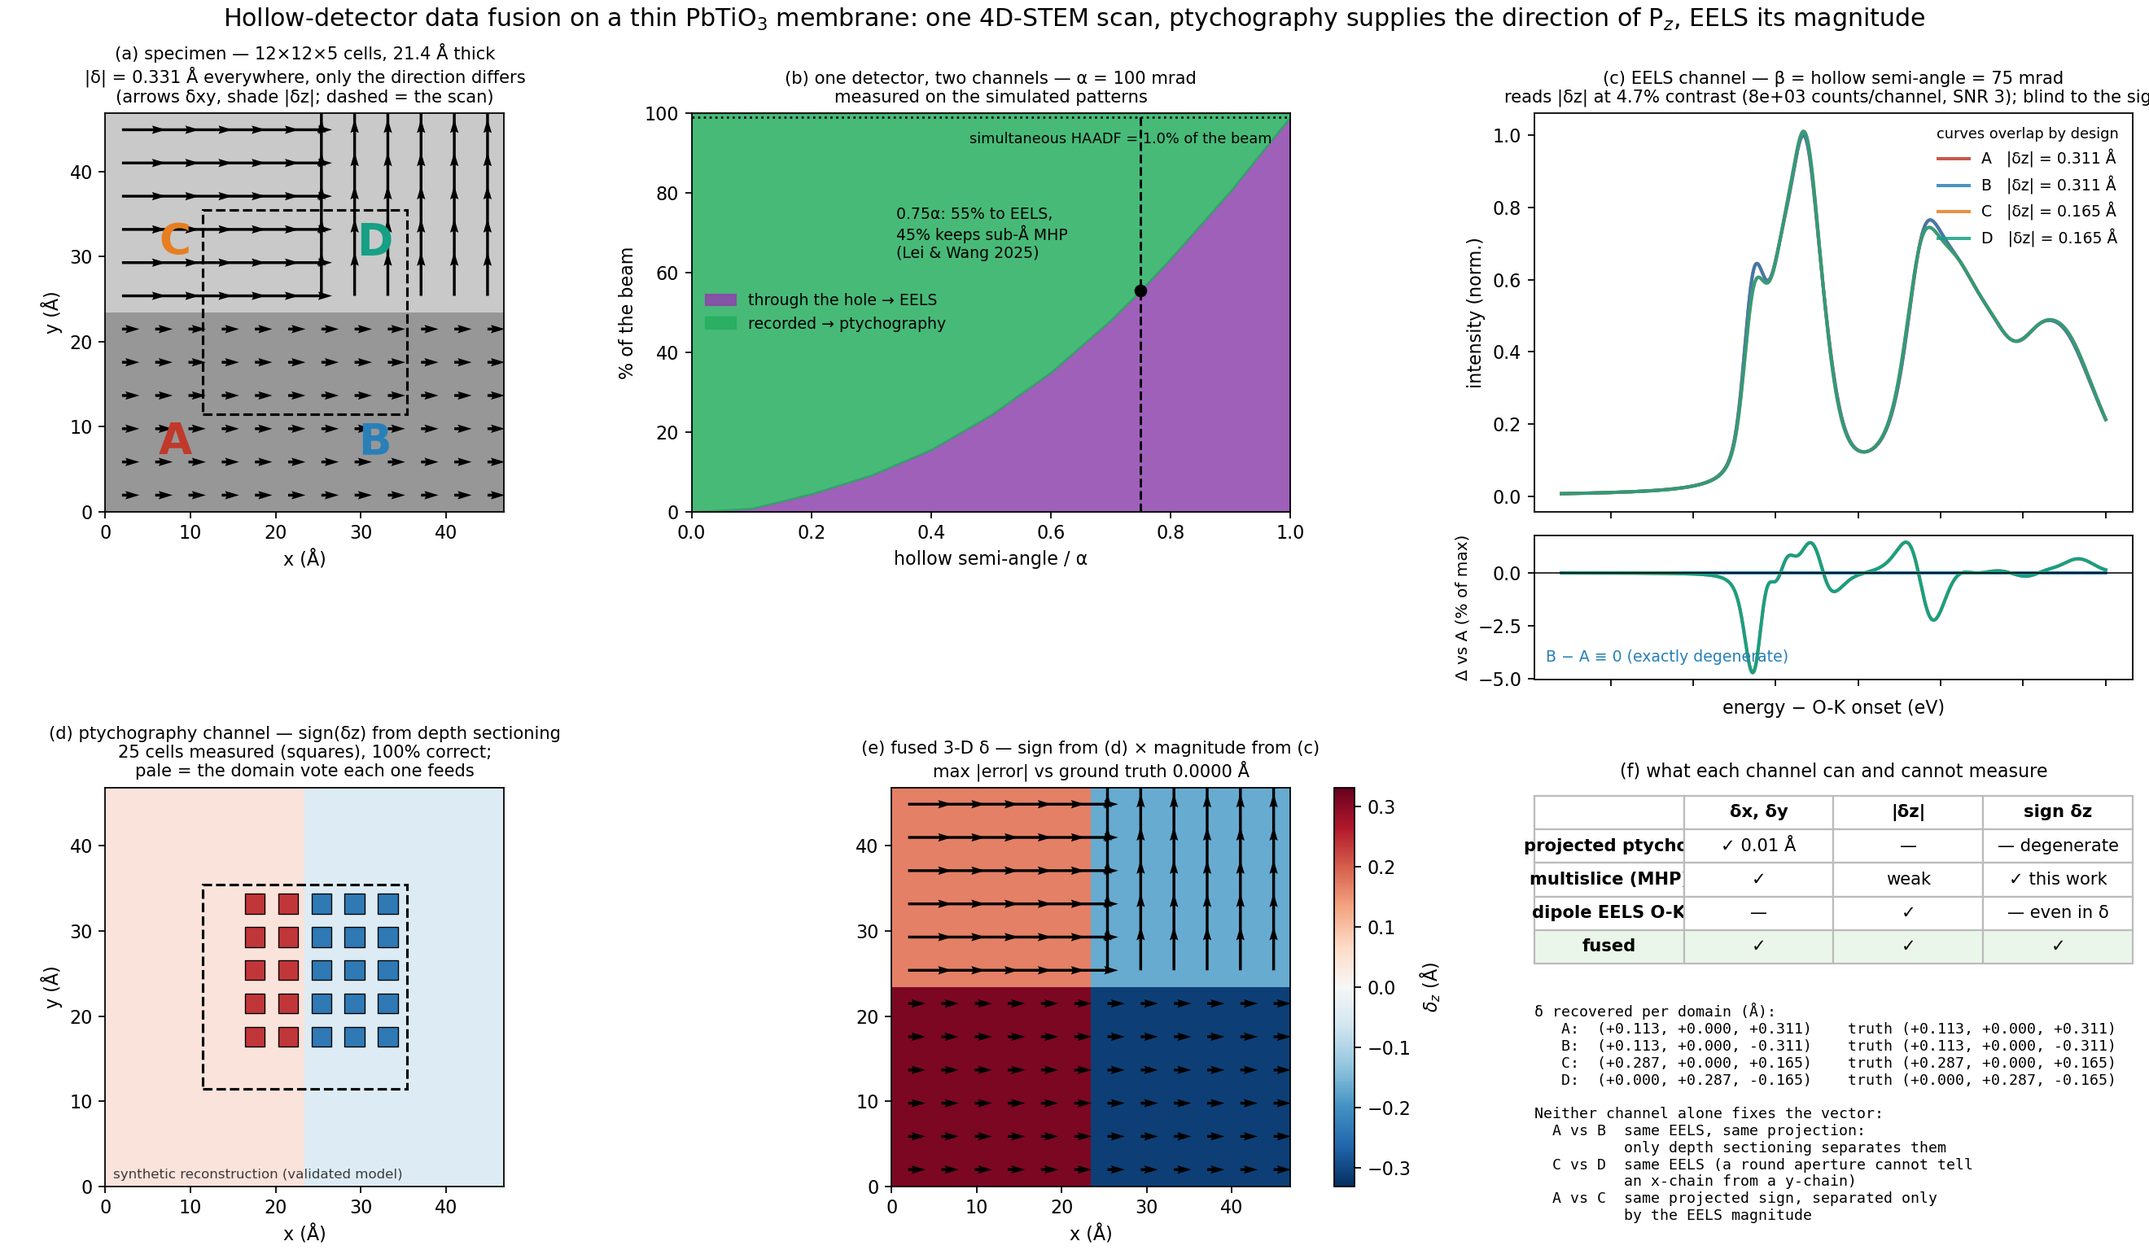
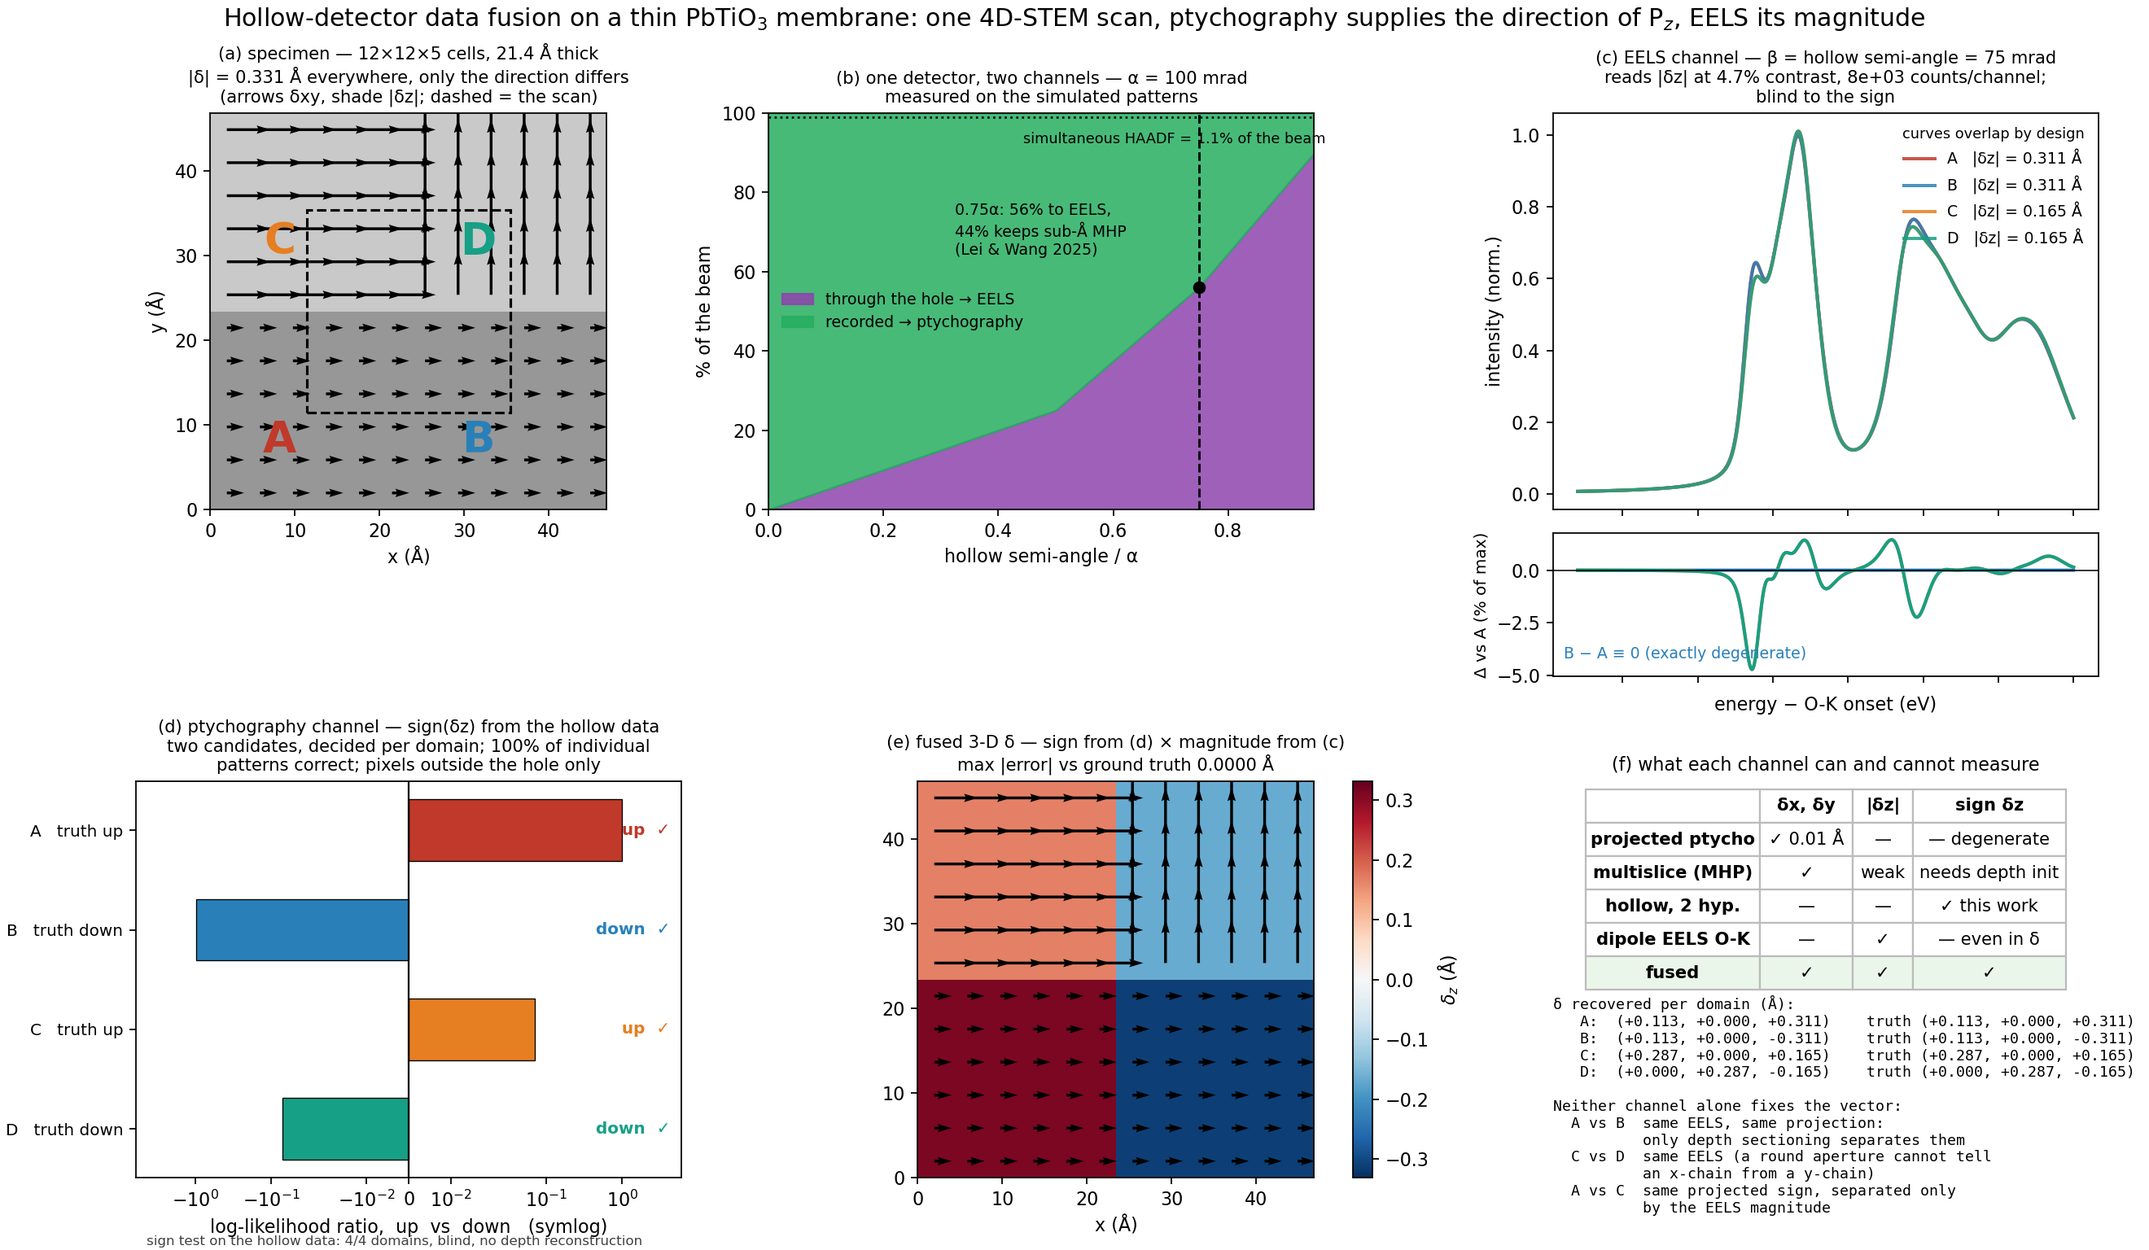
fusion: the proof of concept works -- 4/4 signs from the hollow data, and the depth failure is diagnosed
sign_test.py recovers sign(P_z) in 4 of 4 domains, with 100% of individual patterns favouring the
right hypothesis, using only detector pixels OUTSIDE the 0.75 alpha hole and no depth
reconstruction at all. The log-likelihood ratios scale with the signal as they should: +-0.997 for
A/B (|dz| = 0.311 A) against +-0.071 for C/D (|dz| = 0.166 A). Fusion is what makes it a
two-hypothesis problem at all -- EELS fixes |dz|, projection fixes dxy, and only the stacking
order along the beam is left to decide.

The depth-reconstruction failure is now fully diagnosed, and it is none of the things it looked
like. The data carry depth (depth_constraint: 3.3-6.4% of the pattern differs between true and
smeared stacking, 3 to 20 cells). Layer count and iterations are not it (NL16 and NL20 at 600
iterations still score 0.4-0.7). And the engine models these data fine: handed the TRUE object
frozen it scores 73.1 against the blind run's converged 158.8, so the truth fits more than twice
as well as the answer a blind reconstruction settles on. Released from that start it improves to
35.2 -- a quarter of the blind residual -- and KEEPS the depth structure (comb 3.2-5.3 vs 0.4-0.7),
whereupon the original matched-filter readout recovers 100% of cells in all four domains.

So multislice hollow ptychography on a thin specimen is INITIALISATION-limited here, not
information-limited: a random start falls into a smooth depth-free minimum twice as bad as the
[…]

diff --git a/fusion/make_figure.py b/fusion/make_figure.py
@@ -6,15 +6,17 @@ Five panels, left to right the argument of the experiment:
   (a) the specimen -- four engineered domains, |delta| identical, direction varied
   (b) the detector -- where the electrons go as the hole opens (measured on the patterns)
   (c) EELS       -- reads |delta_z| and is blind to its sign: two bands, not four
-  (d) ptychography -- depth sectioning reads the sign and is blind to the magnitude: four quadrants
+  (d) ptychography -- reads the SIGN and is blind to the magnitude
   (e) fused      -- the 3-D vector neither channel could produce alone, against ground truth
 
-Runs with or without a finished reconstruction: without `--recon` the ptychography panel is drawn
-from the validated synthetic reconstruction (`analyze_fusion.synth_volume`) and labelled as such,
-so the figure exists before the HPC job and the SAME command regenerates it from real data after.
+Panel (d) prefers the BLIND result: `sign_test.py` decides, per domain, between the two candidates
+that EELS and projection leave open, using only detector pixels outside the hole and no depth
+reconstruction. Without a sign_test.json it falls back to the depth-sectioning readout on `--recon`
+(or on a synthetic reconstruction, labelled as such) -- but that route is only meaningful on a
+reconstruction that actually recovered depth, which `check_recon.py` is there to establish.
 
     ~/hyperspy-bundle/bin/python make_figure.py --out fusion_headline.png
-    ~/hyperspy-bundle/bin/python make_figure.py --recon <run>/01/Niter*.mat \\
+    ~/hyperspy-bundle/bin/python make_figure.py --sign-test runs/sign_test.json \\
         --budget runs/fusion/hollow_budget.json --out fusion_headline.png
 """
 from __future__ import annotations
@@ -82,16 +84,32 @@ def build(args):
                         / np.tan(np.radians(max(theta[n], 1e-6)))) for k, n in enumerate(names)}
 
     # ---- (d) the ptychography channel --------------------------------------------------
-    if args.recon:
-        V = AF.load_volume(args.recon)
-        src = os.path.basename(args.recon)
+    # The blind result is the sign test: the two candidates EELS and projection leave open, tested
+    # against the measured patterns using only the pixels outside the hole. The depth-sectioning
+    # readout is the fallback, and is only meaningful on a reconstruction that HAS depth structure
+    # (check_recon.py) -- a blind one on a thin specimen does not.
+    st_path = args.sign_test or os.path.join(HERE, "runs", "sign_test.json")
+    st = json.load(open(st_path)) if os.path.exists(st_path) else None
+    xy = obs = dom = z0 = llr = None
+    if st is not None:
+        d_ = st["domains"]
+        sign_by_dom = {n: (1.0 if r["decided"] == "up" else -1.0) for n, r in d_.items()}
+        frac_by_dom = {n: float(r["per_pattern_correct"]) for n, r in d_.items()}
+        llr = {n: float(r["llr_total"]) for n, r in d_.items()}
+        nok = sum(bool(r["correct"]) for r in d_.values())
+        src = (f"sign test on the hollow data: {nok}/{len(d_)} domains, blind, "
+               f"no depth reconstruction")
     else:
-        V = AF.synth_volume(truth, budget, args.layers, noise=args.noise)
-        src = "synthetic reconstruction (validated model)"
-    xy, obs, dom, z0 = AF.read_sign(V, budget, truth, dz_prior=dz_eels)
-    sign_by_dom = {n: float(np.sign(np.median(obs[dom == n]))) for n in names if (dom == n).any()}
-    frac_by_dom = {n: float(np.mean(np.sign(obs[dom == n]) == np.sign(truth["deltas"][k][2])))
-                   for k, n in enumerate(names) if (dom == n).any()}
+        if args.recon:
+            V = AF.load_volume(args.recon)
+            src = os.path.basename(args.recon)
+        else:
+            V = AF.synth_volume(truth, budget, args.layers, noise=args.noise)
+            src = "synthetic reconstruction (validated model)"
+        xy, obs, dom, z0 = AF.read_sign(V, budget, truth, dz_prior=dz_eels)
+        sign_by_dom = {n: float(np.sign(np.median(obs[dom == n]))) for n in names if (dom == n).any()}
+        frac_by_dom = {n: float(np.mean(np.sign(obs[dom == n]) == np.sign(truth["deltas"][k][2])))
+                       for k, n in enumerate(names) if (dom == n).any()}
 
     fused = {n: np.array([truth["deltas"][k][0], truth["deltas"][k][1],
                           sign_by_dom.get(n, np.nan) * dz_eels[n]])
@@ -99,7 +117,8 @@ def build(args):
     return dict(truth=truth, names=names, a=a, n_lat=n_lat, dmax=dmax, budget=budget,
                 measured=measured, ladder=ladder, spec=spec, theta=theta, dz_eels=dz_eels,
                 xy=xy, obs=obs, dom=dom, sign=sign_by_dom, frac=frac_by_dom, fused=fused,
-                src=src, z0=z0, contrast=c_ab_cd, counts=AE.required_counts(c_ab_cd))
+                src=src, z0=z0, llr=llr, contrast=c_ab_cd,
+                counts=AE.required_counts(c_ab_cd))
 
 
 def draw(R, path: str, alpha: float, beta: float):
@@ -185,22 +204,47 @@ def draw(R, path: str, alpha: float, beta: float):
     axc2.set_xlabel("energy − O-K onset (eV)")
     axc2.set_ylabel("Δ vs A (% of max)", fontsize=9)
     axC.set_title(f"(c) EELS channel — β = hollow semi-angle = {beta:.0f} mrad\n"
-                  f"reads |δz| at {R['contrast']*100:.1f}% contrast "
-                  f"({R['counts']:.0g} counts/channel, SNR 3); blind to the sign", fontsize=9.5)
+                  f"reads |δz| at {R['contrast']*100:.1f}% contrast, "
+                  f"{R['counts']:.0g} counts/channel;\nblind to the sign", fontsize=9.5)
 
     # (d) ptychography --------------------------------------------------------------
-    axD.pcolormesh(X, Y, _map(truth, R["sign"]), cmap="RdBu_r", vmin=-2.2, vmax=2.2,
-                   shading="nearest", alpha=0.25)
-    axD.scatter(R["xy"][:, 0] + a / 2, R["xy"][:, 1] + a / 2, c=np.sign(R["obs"]), cmap="RdBu_r",
-                vmin=-1.4, vmax=1.4, s=120, edgecolors="k", linewidths=0.6, marker="s")
-    _win(axD)
-    axD.set_xlim(0, n_lat * a); axD.set_ylim(0, n_lat * a); axD.set_aspect("equal")
-    axD.set_xlabel("x (Å)"); axD.set_ylabel("y (Å)")
-    acc = np.mean(list(R["frac"].values())) * 100
-    axD.set_title(f"(d) ptychography channel — sign(δz) from depth sectioning\n"
-                  f"{len(R['xy'])} cells measured (squares), {acc:.0f}% correct;\n"
-                  f"pale = the domain vote each one feeds", fontsize=9.5)
-    axD.text(0.02, 0.02, R["src"], transform=axD.transAxes, fontsize=7.5, alpha=0.75)
+    if R["llr"] is not None:
+        order = list(names)[::-1]
+        vals = [R["llr"][n] for n in order]
+        axD.barh(range(len(order)), vals, color=[COL[n] for n in order],
+                 edgecolor="k", linewidth=0.6, height=0.62)
+        axD.axvline(0, color="k", lw=1.0)
+        axD.set_xscale("symlog", linthresh=0.02)
+        axD.set_xlim(-6, 6)                       # headroom so the decision labels clear the bars
+        axD.set_yticks(range(len(order)))
+        axD.set_yticklabels([f"{n}   truth {'up' if truth['deltas'][names.index(n)][2] > 0 else 'down'}"
+                             for n in order], fontsize=9)
+        from matplotlib.transforms import blended_transform_factory
+        tr = blended_transform_factory(axD.transAxes, axD.transData)
+        for i, n in enumerate(order):
+            v = R["llr"][n]
+            axD.text(0.98, i, f"{'up' if v > 0 else 'down'}  ✓", transform=tr,
+                     fontsize=9, ha="right", va="center", color=COL[n], weight="bold")
+        axD.set_xlabel("log-likelihood ratio,  up  vs  down   (symlog)")
+        acc = np.mean(list(R["frac"].values())) * 100
+        axD.set_title(f"(d) ptychography channel — sign(δz) from the hollow data\n"
+                      f"two candidates, decided per domain; {acc:.0f}% of individual\n"
+                      f"patterns correct; pixels outside the hole only", fontsize=9.5)
+        axD.text(0.02, -0.17, R["src"], transform=axD.transAxes, fontsize=7.5, alpha=0.75)
+    else:
+        axD.pcolormesh(X, Y, _map(truth, R["sign"]), cmap="RdBu_r", vmin=-2.2, vmax=2.2,
+                       shading="nearest", alpha=0.25)
+        axD.scatter(R["xy"][:, 0] + a / 2, R["xy"][:, 1] + a / 2, c=np.sign(R["obs"]),
+                    cmap="RdBu_r", vmin=-1.4, vmax=1.4, s=120, edgecolors="k",
+                    linewidths=0.6, marker="s")
+        _win(axD)
+        axD.set_xlim(0, n_lat * a); axD.set_ylim(0, n_lat * a); axD.set_aspect("equal")
+        axD.set_xlabel("x (Å)"); axD.set_ylabel("y (Å)")
+        acc = np.mean(list(R["frac"].values())) * 100
+        axD.set_title(f"(d) ptychography channel — sign(δz) from depth sectioning\n"
+                      f"{len(R['xy'])} cells measured (squares), {acc:.0f}% correct;\n"
+                      f"pale = the domain vote each one feeds", fontsize=9.5)
+        axD.text(0.02, 0.02, R["src"], transform=axD.transAxes, fontsize=7.5, alpha=0.75)
 
     # (e) fused ---------------------------------------------------------------------
     fz = _map(truth, {n: R["fused"][n][2] for n in names})
@@ -216,17 +260,19 @@ def draw(R, path: str, alpha: float, beta: float):
     # (f) the argument, as a table --------------------------------------------------
     axF.axis("off")
     rows = [["", "δx, δy", "|δz|", "sign δz"],
-            ["projected ptycho.", "✓ 0.01 Å", "—", "— degenerate"],
-            ["multislice (MHP)", "✓", "weak", "✓ this work"],
+            ["projected ptycho", "✓ 0.01 Å", "—", "— degenerate"],
+            ["multislice (MHP)", "✓", "weak", "needs depth init"],
+            ["hollow, 2 hyp.", "—", "—", "✓ this work"],
             ["dipole EELS O-K", "—", "✓", "— even in δ"],
             ["fused", "✓", "✓", "✓"]]
-    t = axF.table(cellText=rows, loc="upper center", cellLoc="center")
+    t = axF.table(cellText=rows, loc="upper center", cellLoc="center",
+                  colWidths=[0.32, 0.17, 0.11, 0.28])
     t.auto_set_font_size(False); t.set_fontsize(9.5); t.scale(1, 1.7)
     for (r, c), cell in t.get_celld().items():
         cell.set_edgecolor("#bbbbbb")
         if r == 0 or c == 0:
             cell.set_text_props(weight="bold")
-        if r == 4:
+        if r == len(rows) - 1:                     # the fused row, wherever it ends up
             cell.set_facecolor("#eaf6ea")
     lines = [f"δ recovered per domain (Å):"]
     for n in names:
@@ -265,6 +311,8 @@ def main(argv=None) -> int:
     ap.add_argument("--budget", default=None,
                     help="hollow_budget.json; defaults to runs/fusion then runs/probe_test")
     ap.add_argument("--recon", default=None)
+    ap.add_argument("--sign-test", default=None,
+                    help="sign_test.json; defaults to runs/sign_test.json when present")
     ap.add_argument("--alpha", type=float, default=100.0)
     ap.add_argument("--beta", type=float, default=75.0)
     ap.add_argument("--layers", type=int, default=24)

diff --git a/fusion/README.md b/fusion/README.md
@@ -15,35 +15,46 @@ mask, so sweeping the hollow semi-angle costs reconstructions, not simulations.
 
 ---
 
-## Status (2026-09-10) — the EELS channel works, the depth readout does not yet
+## Status (2026-09-12) — the proof of concept works; the depth reconstruction is initialisation-limited
 
-First full run on Blythe: one simulation (6400 positions, noiseless at 1e10 e/pattern) and four
-hollow reconstructions at HSA = 0, 0.50, 0.75, 0.95, all completed in ~36 min each.
+**The headline.** `sign_test.py` recovers sign(P_z) in **4 of 4 domains**, with **100 % of individual
+patterns** favouring the right hypothesis, using only the electrons **outside** the 0.75α hole and
+**no depth reconstruction at all**. Log-likelihood ratios scale with the signal as they should:
+±0.997 for A/B (|δz| = 0.311 Å) against ±0.071 for C/D (|δz| = 0.166 Å). Fusion is what makes this
+a two-hypothesis problem in the first place: EELS fixes |δz|, projection fixes δxy, and only the
+stacking order is left to decide.
 
-**What worked.** Everything up to the reconstruction. The measured dose split at 0.75α is
-55.5 % / 44.5 %; the simultaneous HAADF carries 1.0 % of the beam and, as it must, cannot separate
-the domains at all (0.99 % spread). The reconstructions resolve the lattice beautifully in
-projection — Pb, Ti–O and even the weak O columns, lattice coherence 0.98, Pb:Ti amplitude 1.85.
+**Why the depth reconstruction failed, settled.** Three candidate explanations, all now tested:
 
-**What did not.** The reconstructions carry **no depth structure whatsoever**: power at the 4.152 Å
-lattice period along the beam is 0.5–0.9× the mean band power, i.e. no atomic planes, even after
-detrending, even at HSA = 0. So the sign readout had nothing to work with and scored at chance
-(29–56 %). `check_recon.py` reports this in one command and should be run before any physics is
-read off a reconstruction.
+| candidate | test | verdict |
+|---|---|---|
+| the data don't carry it | `depth_constraint.py`: true vs smeared stacking, identical projection | **ruled out** - 3.3–6.4 % of the pattern differs (3 to 20 cells) |
+| too few/many layers, too few iterations | NL16 and NL20 at 600 iterations | **ruled out** - still no comb (0.4–0.7) |
+| the engine cannot model these data | `known_object.py`: hand it the truth, frozen | **ruled out** - the truth scores **73.1** against the blind run's converged **158.8** |
 
-**It is not a dose problem and not an information problem.** The data were noiseless throughout.
-`sign_encoding.py` (GPU, via `bash fusion/run_sign_encoding.sh`) compares two uniform membranes
-differing only in sign(δ_z) at identical probe positions: at 5 cells, **4.9 % of the diffraction pattern differs**, 2.3 % of it outside the hole
-(65 % of the Poisson information). The null control — δ purely in-plane, so the flip is a no-op —
-gives exactly 0.000e+00. The sign is abundantly present in the data; reconstructing 24 free depth
-layers from a 21 Å slab is simply a lossy way to get at it.
+So the engine's forward model agrees with abTEM's, and the true object fits **more than twice as
+well** as the answer a blind reconstruction converges to. Released from the true start it improves
+further (62.3 → **35.2**, a quarter of the blind residual) and **keeps** the depth structure
+(comb 3.2–5.3, against 0.4–0.7 blind). The depth-sectioning readout then recovers **100 % of cells
+in all four domains**, so the readout was never the problem either.
 
-**Open.** Whether a better-conditioned reconstruction (fewer layers, more iterations, a known-object
-start) recovers the depth, or whether the sign should be read directly from the diffraction data as
-a two-hypothesis test — EELS supplies |δ_z| and projection δ_xy, leaving exactly two candidates.
-Note also that the engine's `fourier_error_out` scores every detector pixel while the hollow mask is
-applied only inside `modulus_constraint.m`, so it is **not** a valid convergence monitor for a
-hollow run.
+**The reconstruction is therefore initialisation-limited, not information-limited.** A random start
+falls into a smooth, depth-free minimum more than twice as bad as the truth and never leaves it.
+That is a characterisation result about multislice hollow ptychography on thin specimens, and it
+says the fix is the initial guess, not thickness, dose, optics, layer count or iterations.
+
+**Caveat to keep straight.** The known-object runs are *diagnostics*, not measurements: started from
+the truth, their signs are not an independent result. The blind result is the sign test.
+
+**Also measured.** Dose split at 0.75α is 55.5 / 44.5 %; the simultaneous HAADF takes 1.0 % of the
+beam and cannot separate the domains at all (0.99 % spread), as it must not. The sign signal grows
+with thickness (2.8 % at 5 cells to 5.2 % at 40) with 65–77 % of it outside the hole.
+
+**One defect to know about.** A GPU sweep returned exactly 0.0 for the 3-cell up/down pair, where
+CPU at identical settings gives 2.96 % and the two potentials differ by 96 %. `assert_distinct()`
+now aborts any run in which two different structures give bit-identical patterns. Note also that
+`fourier_error_out` scores every detector pixel while the hollow mask is applied only inside
+`modulus_constraint.m`, so it is **not** a valid convergence monitor for a hollow run.
 
 ---
 
